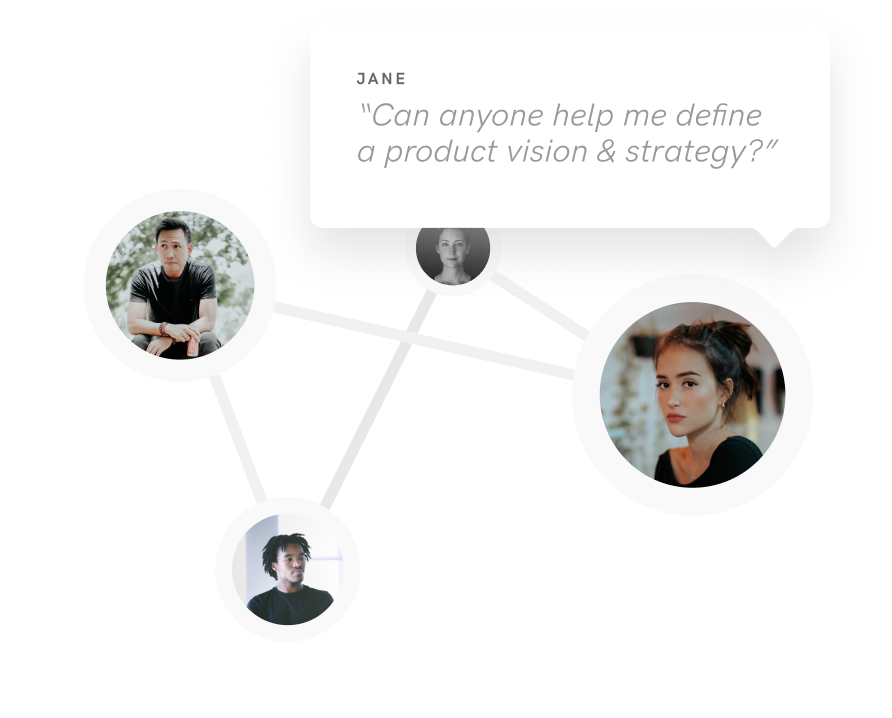
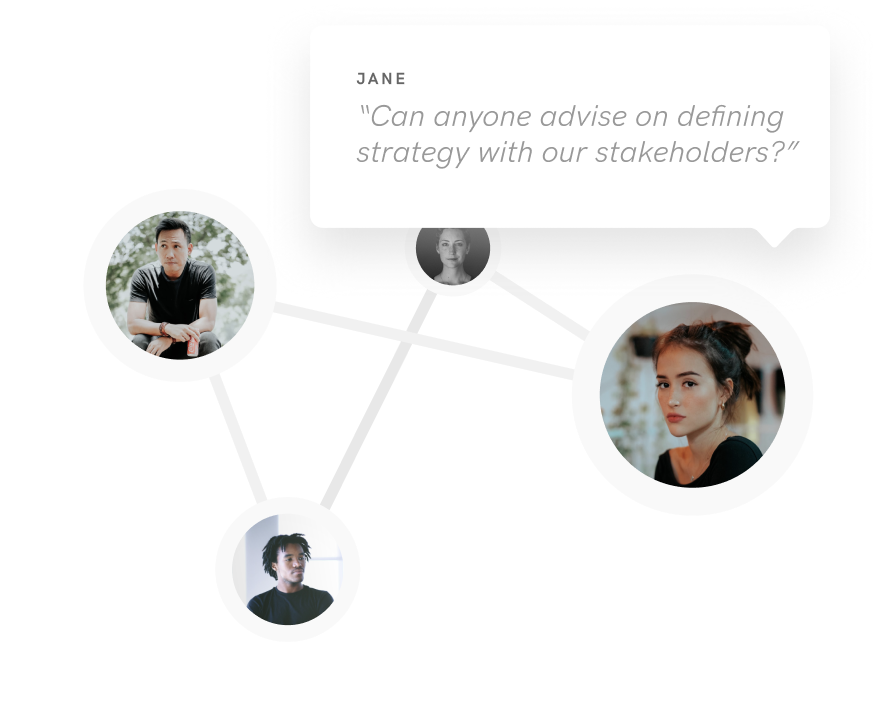
AB TEST: Landing page value proposition; ELEMENT: ProductShowcase props passed up to view

Changed region(s): [[0.3935, 0.1226, 0.8778, 0.2451]]

diff --git a/src/components/blocks/ProductShowcase/ProductShowcase.js b/src/components/blocks/ProductShowcase/ProductShowcase.js
@@ -1,23 +1,22 @@
 // @flow
 import React, { Component } from 'react';
 
-import imgGuide from '../../../assets/images/prototype/product_guide.png';
-import imgSprints from '../../../assets/images/prototype/product_sprints.png';
-import imgRemote from '../../../assets/images/prototype/product_remote.png';
-import imgMentors from '../../../assets/images/prototype/product_mentors.png';
-// import imgOnboarding from '../../../assets/images/prototype/product_onboarding.png';
-// import imgStandup from '../../../assets/images/prototype/product_standup.png';
-// import imgRetro from '../../../assets/images/prototype/product_retro.png';
-// import imgTools from '../../../assets/images/prototype/product_tools.png';
-
 import './ProductShowcase.scss';
 
 type Props = {
   header: string,
   blockOneHeader: string,
+  blockOneBody: string,
+  blockOneImage: string,
   blockTwoHeader: string,
+  blockTwoBody: string,
+  blockTwoImage: string,
   blockThreeHeader: string,
+  blockThreeBody: string,
+  blockThreeImage: string,
   blockFourHeader: string,
+  blockFourBody: string,
+  blockFourImage: string,
   url: string,
   cta: string,
 };
@@ -27,9 +26,17 @@ export default class ProductShowcase extends Component<Props> {
     const {
       header,
       blockOneHeader,
+      blockOneBody,
+      blockOneImage,
       blockTwoHeader,
+      blockTwoBody,
+      blockTwoImage,
       blockThreeHeader,
+      blockThreeBody,
+      blockThreeImage,
       blockFourHeader,
+      blockFourBody,
+      blockFourImage,
       url,
       cta,
     } = this.props;
@@ -41,11 +48,7 @@ export default class ProductShowcase extends Component<Props> {
         <div className="block block__reverse">
           <div className="block__text block__text_left">
             <h3>{blockOneHeader}</h3>
-            <p>
-              Learn how the world’s best Product Managers run their product
-              teams, covering anything from leadership to prouct strategy, &
-              apply these practices with our digital toolkit
-            </p>
+            <p>{blockOneBody}</p>
             <a className="block__cta" href={url}>
               {cta}
             </a>
@@ -53,7 +56,7 @@ export default class ProductShowcase extends Component<Props> {
           <div className="block__img">
             <img
               alt="Remote Guide"
-              src={imgSprints}
+              src={blockOneImage}
               className="block__img__bg"
             />
           </div>
@@ -61,15 +64,15 @@ export default class ProductShowcase extends Component<Props> {
 
         <div className="block">
           <div className="block__img">
-            <img alt="Onboarding" src={imgGuide} className="block__img__bg" />
+            <img
+              alt="Onboarding"
+              src={blockTwoImage}
+              className="block__img__bg"
+            />
           </div>
           <div className="block__text">
             <h3>{blockTwoHeader}</h3>
-            <p>
-              Effortlessly get your existing team & new hires better organised &
-              better connected. Use our ready-to-go templates to build a product
-              playbook
-            </p>
+            <p>{blockTwoBody}</p>
             <a className="block__cta" href={url}>
               {cta}
             </a>
@@ -79,10 +82,7 @@ export default class ProductShowcase extends Component<Props> {
         <div className="block block__reverse">
           <div className="block__text block__text_left">
             <h3>{blockThreeHeader}</h3>
-            <p>
-              Join our community of experienced Product Managers to help set
-              personal goals & to advise you throughout your career
-            </p>
+            <p>{blockThreeBody}</p>
             <a className="block__cta" href={url}>
               {cta}
             </a>
@@ -90,7 +90,7 @@ export default class ProductShowcase extends Component<Props> {
           <div className="block__img">
             <img
               alt="Team Retreats"
-              src={imgMentors}
+              src={blockThreeImage}
               className="block__img__bg"
             />
           </div>
@@ -98,15 +98,15 @@ export default class ProductShowcase extends Component<Props> {
 
         <div className="block">
           <div className="block__img">
-            <img alt="Onboarding" src={imgRemote} className="block__img__bg" />
+            <img
+              alt="Onboarding"
+              src={blockFourImage}
+              className="block__img__bg"
+            />
           </div>
           <div className="block__text">
             <h3>{blockFourHeader}</h3>
-            <p>
-              Learn how world-class remote teams operate & unlock the ability to
-              build your own remote team, or to nail your next remote job
-              interview
-            </p>
+            <p>{blockFourBody}</p>
             <a className="block__cta" href={url}>
               {cta}
             </a>

diff --git a/src/components/views/Home/Home.js b/src/components/views/Home/Home.js
@@ -13,9 +13,20 @@ import {
 } from '../../blocks';
 import './Home.scss';
 
+// Product Showcase Images
+import imgStrategy from '../../../assets/images/prototype/product_strategy.png';
+import imgGuide from '../../../assets/images/prototype/product_guide.png';
+import imgRemote from '../../../assets/images/prototype/product_remote.png';
+import imgMentors from '../../../assets/images/prototype/product_mentors.png';
+// import imgOnboarding from '../../../assets/images/prototype/product_onboarding.png';
+// import imgStandup from '../../../assets/images/prototype/product_standup.png';
+// import imgSprints from '../../../assets/images/prototype/product_sprints.png';
+// import imgRetro from '../../../assets/images/prototype/product_retro.png';
+// import imgTools from '../../../assets/images/prototype/product_tools.png';
+
 export default class Home extends Component {
   componentDidMount() {
-    Mixpanel.track('PM.c Signup: Home');
+    Mixpanel.track('B Signup: Home');
   }
 
   render() {
@@ -39,18 +50,26 @@ export default class Home extends Component {
         <Hero
           title="Master Product"
           titleTwo="Management"
-          subtitle="Junior/mid-level PM? Learn how to double your salary & unlock remote work without spending $5k & months on a course with our toolkit for world-class product management"
+          subtitle="Junior/Mid-Level PM? Learn how to build great, innovative products that solve real problems with just a few minutes per day, without spending $5k & months on an ineffective course"
           mixpanelEvent="Subscribed"
           mailchimpForm
           url="https://scribeapp.us5.list-manage.com/subscribe/post?u=9452004c3109652cfc9a9e3e1&amp;id=3dd26bab04"
         />
         <Featured header="Where our Product Masters Work" />
         <ProductShowcase
-          header="Your Secret Weapon For Better Product Work"
-          blockOneHeader="Become a Better PM"
-          blockTwoHeader="Organise Your Team Within Minutes"
-          blockThreeHeader="Find Your Product Mentor"
-          blockFourHeader="Learn Remote Best Practice"
+          header="Your Secret Weapon For Building Great Products"
+          blockOneHeader="Learn Best Practice"
+          blockOneBody="Learn how the world’s best Product Managers run their product teams, from vision & strategy to prioritisation & navigating stakeholder management"
+          blockOneImage={imgStrategy}
+          blockTwoHeader="Apply With Your Team"
+          blockTwoBody="Use our customisable product templates to set your strategy, a high-level roadmap & to organise your team within minutes"
+          blockTwoImage={imgGuide}
+          blockThreeHeader="Iterate Towards Mastery"
+          blockThreeBody="Join our network of PMs & Product Mentors to share ideas, get feedback on your approach & for experienced mentorship throughout your product career"
+          blockThreeImage={imgMentors}
+          blockFourHeader="Bonus: Unlock Remote  Work"
+          blockFourBody="Apply remote best practices, taken from the world’s best remote companies, to start moving your team towards being fully remote"
+          blockFourImage={imgRemote}
           url="#signup"
           cta="Request Access >"
         />

diff --git a/src/components/views/Referral/AcceptReferral.js b/src/components/views/Referral/AcceptReferral.js
@@ -29,9 +29,9 @@ export default class AcceptReferral extends Component {
           return;
         }
         // Generic Mixpanel event to track funnel
-        Mixpanel.track('PM.c Signup: Referral accepted');
+        Mixpanel.track('B Signup: Referral accepted');
         // Success response - redirect and set tracker
-        Mixpanel.track(`PM.c Signup: Referral accepted: ${referralLink}`);
+        Mixpanel.track(`B Signup: Referral accepted: ${referralLink}`);
         window.location.href = 'www.productmastery.co';
       })
       .catch(() => {

diff --git a/src/components/blocks/Hero/Hero.js b/src/components/blocks/Hero/Hero.js
@@ -24,7 +24,7 @@ type FormTypes = {
 const CustomForm = ({ onSubscribe }: FormTypes) => {
   let email;
   const submit = () => {
-    Mixpanel.track('PM.c Signup: Subscribed!');
+    Mixpanel.track('B Signup: Subscribed!');
 
     if (email && email.value && email.value.indexOf('@') > -1) {
       onSubscribe({
@@ -145,6 +145,6 @@ export default class Hero extends Component<Props> {
   }
 
   goToTypeform = () => {
-    Mixpanel.track(`PM.c Signup: ${this.props.mixpanelEvent}`);
+    Mixpanel.track(`B Signup: ${this.props.mixpanelEvent}`);
   };
 }

diff --git a/src/components/blocks/RefereeInput/RefereeInput.jsx b/src/components/blocks/RefereeInput/RefereeInput.jsx
@@ -80,7 +80,7 @@ export default class Refer extends Component {
           return;
         }
         // Success response - redirect and set tracker
-        Mixpanel.track('PM.c Signup: Signup');
+        Mixpanel.track('B Signup: Signup');
         window.location.href = `/statistics/${response.data.user.referral_link}`;
       })
       .catch(error => {

diff --git a/src/components/blocks/ReferralBlock/ReferralBlock.jsx b/src/components/blocks/ReferralBlock/ReferralBlock.jsx
@@ -138,7 +138,7 @@ export default class ReferralBlock extends Component {
           });
           return;
         }
-        Mixpanel.track('PM.c Signup: Referral sent');
+        Mixpanel.track('B Signup: Referral sent');
         this.getStatistics(this.props.referralLink);
         this.setState({
           error: response.data.data.failureMessages,

diff --git a/src/components/blocks/Footer/Footer.jsx b/src/components/blocks/Footer/Footer.jsx
@@ -63,10 +63,10 @@ class Footer extends Component {
   }
 
   goToAbout = () => {
-    Mixpanel.track('PM.c Signup: About');
+    Mixpanel.track('B Signup: About');
   };
   goToBlog = () => {
-    Mixpanel.track('PM.c Signup: Blog');
+    Mixpanel.track('B Signup: Blog');
   };
 }
 

diff --git a/src/components/views/Mentors/Mentors.js b/src/components/views/Mentors/Mentors.js
@@ -16,7 +16,7 @@ import './Mentors.scss';
 
 export default class Home extends Component {
   componentDidMount() {
-    Mixpanel.track('PM.c Signup: Mentors');
+    Mixpanel.track('B Signup: Mentors');
   }
 
   render() {

diff --git a/src/components/views/Referee/Referee.js b/src/components/views/Referee/Referee.js
@@ -7,7 +7,7 @@ import './Referee.scss';
 
 export default class Home extends Component {
   componentDidMount() {
-    Mixpanel.track('PM.c Signup: Referee');
+    Mixpanel.track('B Signup: Referee');
   }
 
   render() {

diff --git a/src/components/blocks/ProductShowcase/ProductShowcase.scss b/src/components/blocks/ProductShowcase/ProductShowcase.scss
@@ -87,9 +87,11 @@
 
   h3,
   p {
+    // display: flex;
     margin: 0 auto;
     max-width: 360px;
     text-align: center;
+    // width: 100%;
 
     @media (min-width: $screen-md-min) {
       text-align: left;
